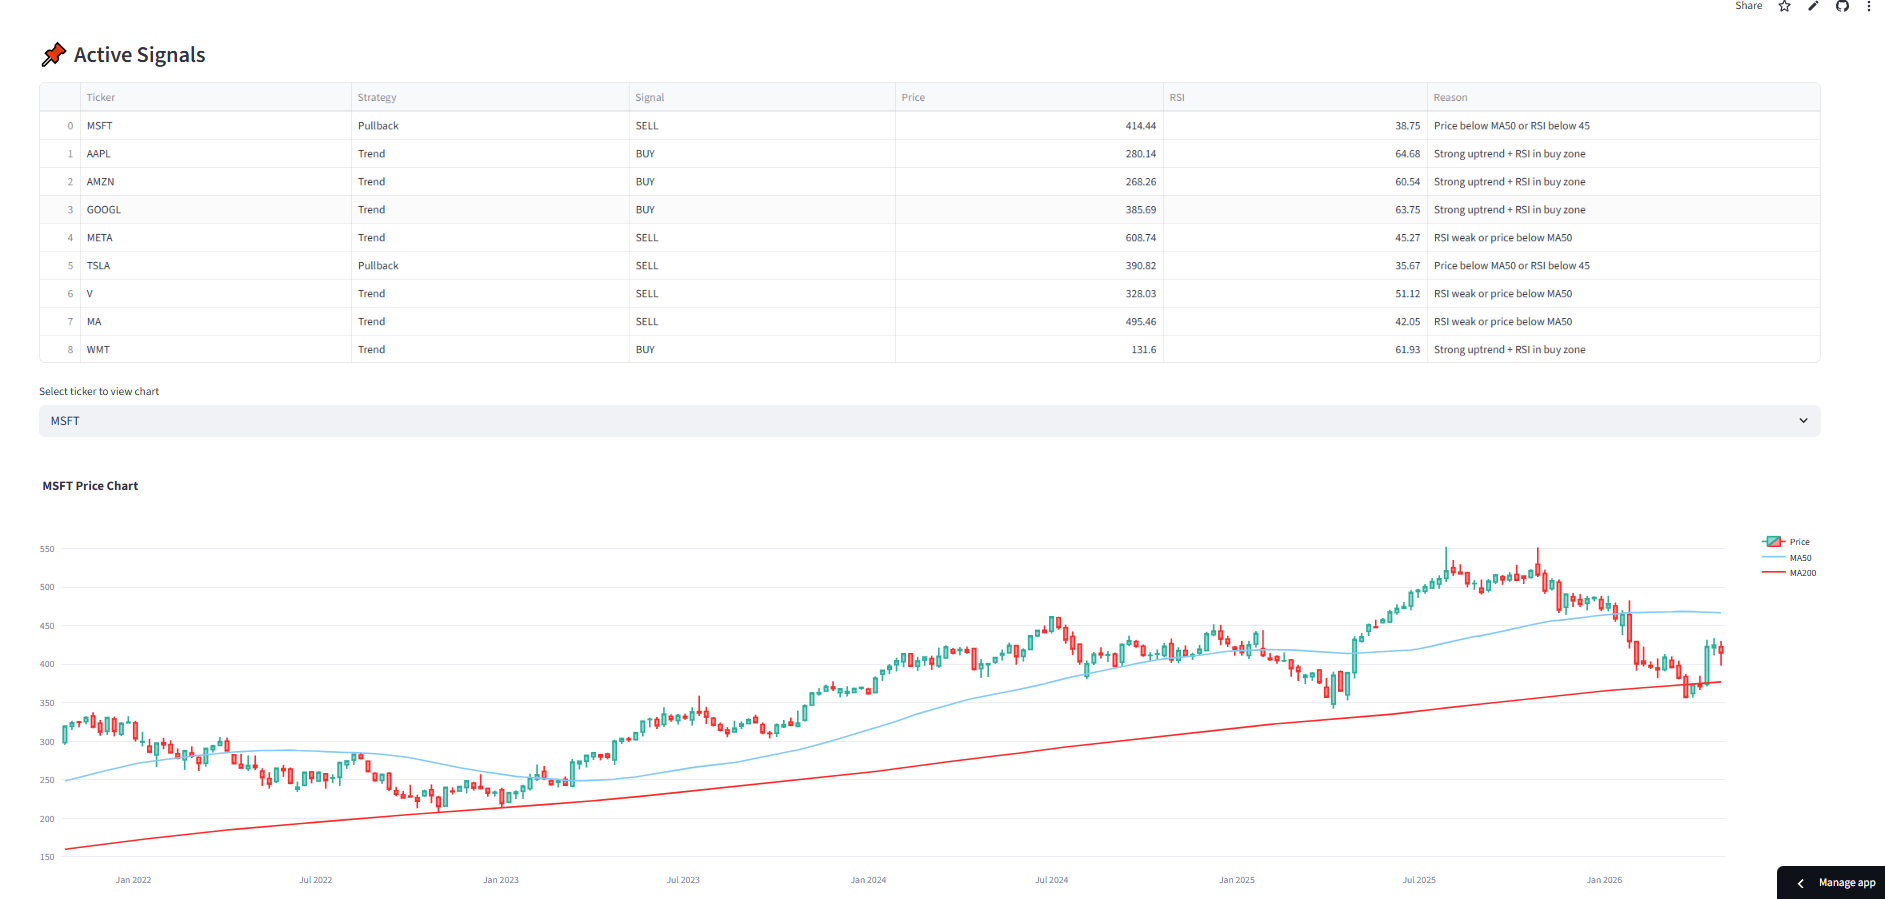
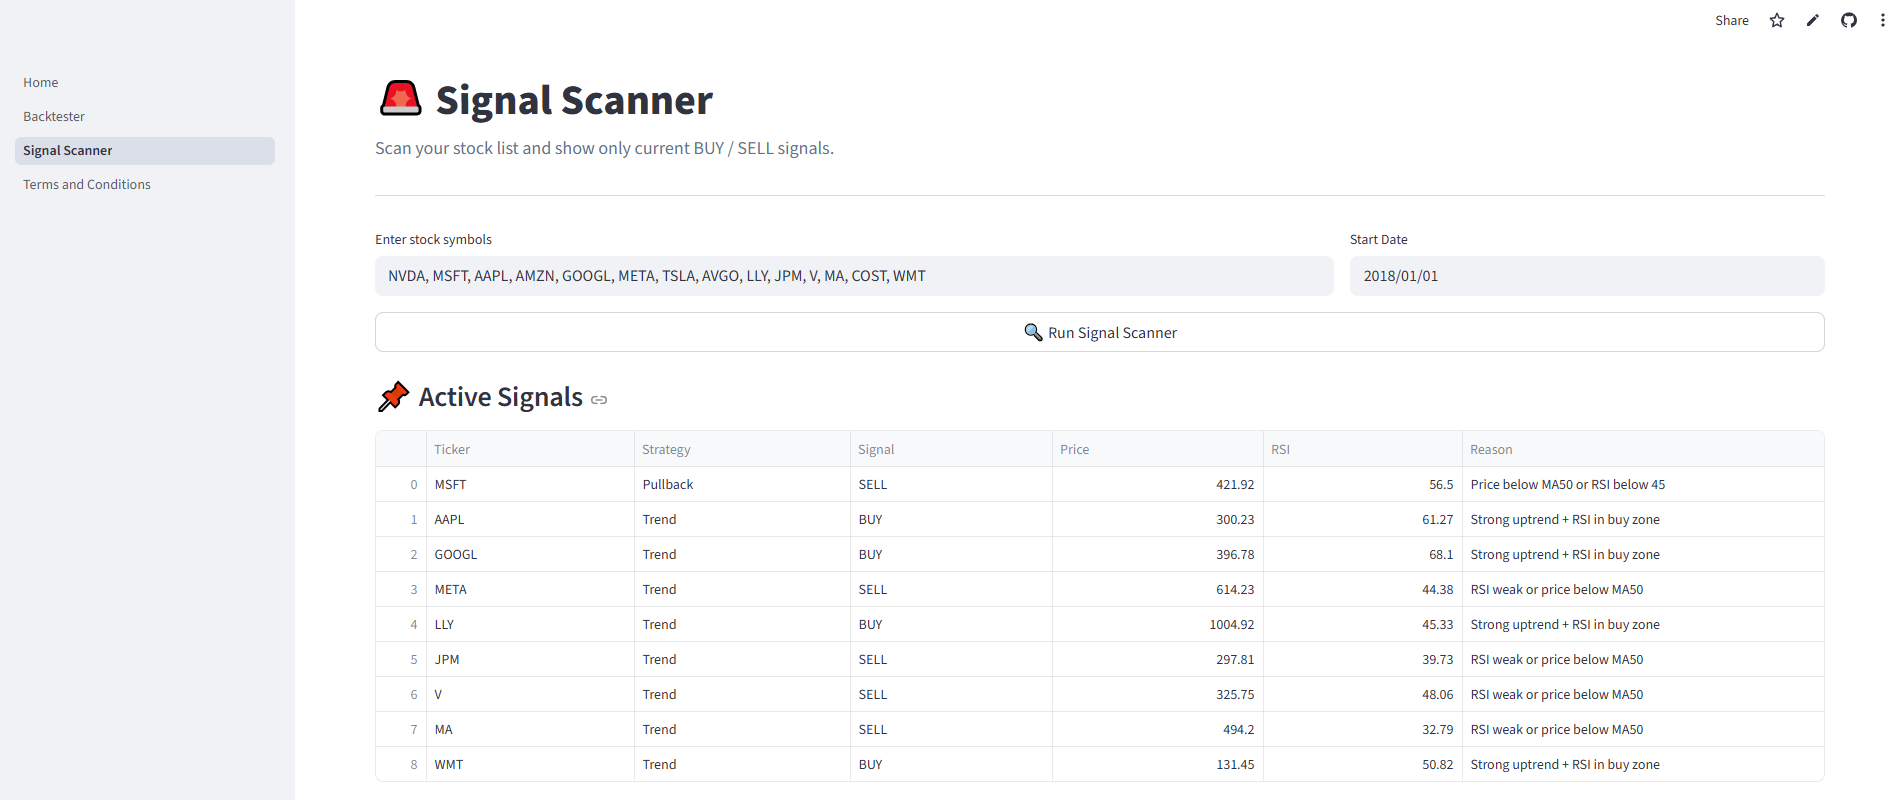
Update README and Home page with new screenshots

diff --git a/Home.py b/Home.py
@@ -75,8 +75,8 @@ st.subheader("📸 Previews")
 c1, c2, c3 = st.columns(3)
 
 with c1:
-    st.image("screenshots/back-test-results.png", caption="Detailed Backtest Results & Equity Curves", use_column_width=True)
+    st.image("screenshots/back-test-results-2.png", caption="Detailed Backtest Results & Equity Curves", use_column_width=True)
 with c2:
-    st.image("screenshots/top-5-stocks-to-buy.png", caption="Top 5 Opportunities Ranked by Score", use_column_width=True)
+    st.image("screenshots/back-tests.png", caption="Multi-Strategy Testing Engine", use_column_width=True)
 with c3:
-    st.image("screenshots/active-signals.png", caption="Active Signal Scanner", use_column_width=True)
+    st.image("screenshots/active-signals-2.png", caption="Active Signal Scanner", use_column_width=True)

diff --git a/README.md b/README.md
@@ -13,17 +13,20 @@ This tool helps identify high-quality buy/sell opportunities by combining **tren
 
 ## 🖼 App Screenshots
 
-### 📌 Active Signals
-![Active Signals](screenshots/active-signals.png)
+### 🏠 Home Page
+![Home Page](screenshots/home.png)
 
-### 📊 Backtest Results
+### 📊 Backtester & Results
+![Backtest Settings](screenshots/back-tests.png)
 ![Backtest Results](screenshots/back-test-results.png)
+![Equity Curves](screenshots/back-test-results-2.png)
 
-### 📈 All Backtests
-![Backtests](screenshots/back-tests.png)
+### 📌 Active Signal Scanner
+![Signal Scanner](screenshots/active-signals.png)
+![Signal Details](screenshots/active-signals-2.png)
 
-### 🔥 Top 5 Stocks
-![Top 5](screenshots/top-5-stocks-to-buy.png)
+### 📄 Terms & Conditions
+![Terms](screenshots/terms-and-conditions.png)
 
 ---
 
